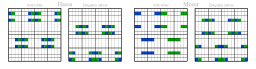
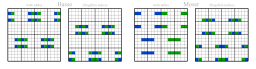
Draw crispEdges and optimizeSpeed shapes without antialiasing; struct forgives what blurs alike
Inkscape draws the four other wikimedia grids of dashes Skia drops or keeps by their phase.

Changed region(s): [[0.5312, 0.1159, 1.0, 0.8986], [0.0, 0.1159, 0.4688, 0.8986], [0.5312, 0.7246, 0.5625, 0.7536]]

diff --git a/svg.cpp b/svg.cpp
@@ -190,6 +190,7 @@ using namespace stl;
     ATOM(MixBlendMode, "mix-blend-mode")                           \
     ATOM(Isolation, "isolation")                                   \
     ATOM(ColorInterpolation, "color-interpolation")                \
+    ATOM(ShapeRendering, "shape-rendering")                        \
     ATOM(Outline, "outline")
 
 namespace {
@@ -541,6 +542,7 @@ namespace {
         u8 blend;
         bool isolate;
         bool linearColors;
+        bool aliased;
         float outlineWidth;
         Color outlineColor;
         u8 paintOrder[3];
@@ -673,6 +675,7 @@ namespace {
     struct Op {
         OpKind kind;
         u8 rule;
+        bool aliased;
         u32 first;
         u32 count;
         Box bounds;
@@ -4116,6 +4119,8 @@ namespace {
                 return equalsIgnoreCase(text, StringView(u8"none")) || validDashes(text);
             case AtomStrokeWidth:
                 return parseLength(text, length) && length.value >= 0.f;
+            case AtomShapeRendering:
+                return equalsIgnoreCase(text, StringView(u8"auto")) || equalsIgnoreCase(text, StringView(u8"optimizespeed")) || equalsIgnoreCase(text, StringView(u8"crispedges")) || equalsIgnoreCase(text, StringView(u8"geometricprecision"));
             default:
                 return true;
         }
@@ -7269,6 +7274,16 @@ namespace {
                     style.outlineColor = color;
                     break;
                 }
+                case AtomShapeRendering:
+                    if (keyword) {
+                        style.aliased = source.aliased;
+                    } else if (isKeyword(value, "crispedges") || isKeyword(value, "optimizespeed")) {
+                        style.aliased = true;
+                    } else if (isKeyword(value, "auto") || isKeyword(value, "geometricprecision")) {
+                        style.aliased = false;
+                    }
+
+                    break;
                 case AtomColorInterpolation:
                     if (keyword) {
                         style.linearColors = source.linearColors;
@@ -7460,12 +7475,13 @@ namespace {
         }
     }
 
-    static void emitFill(Lowering& l, const Flat& flat, u8 rule, DevicePaint* paint) {
+    static void emitFill(Lowering& l, const Flat& flat, u8 rule, DevicePaint* paint, bool aliased) {
         Op op;
 
         memset(&op, 0, sizeof(op));
         op.kind = OpKind::Fill;
         op.rule = rule;
+        op.aliased = aliased;
         op.paint = paint;
         op.first = (u32)l.edges.length();
         op.bounds = emptyBox();
@@ -8617,7 +8633,7 @@ namespace {
             Flat flat;
 
             flatten(path, item.space, tolerance, flat);
-            emitFill(l, flat, item.style.clipRule, solidPaint(l, Color{1.f, 1.f, 1.f, 1.f}, 1.f));
+            emitFill(l, flat, item.style.clipRule, solidPaint(l, Color{1.f, 1.f, 1.f, 1.f}, 1.f), false);
 
             if (inner.clipped) {
                 endGroup(l);
@@ -9546,11 +9562,11 @@ namespace {
                     Flat flat;
 
                     flatten(path, m, tolerance, flat);
-                    emitFill(l, flat, style.fillRule, fill);
+                    emitFill(l, flat, style.fillRule, fill, style.aliased);
                 }
             } else if (layer == 1 && style.visible && style.strokeWidth > 0.f) {
                 float coverage = 1.f;
-                bool hairline = !style.nonScaling && hairlineCoverage(style.strokeWidth, m, coverage);
+                bool hairline = !style.nonScaling && !style.aliased && hairlineCoverage(style.strokeWidth, m, coverage);
 
                 if (DevicePaint* stroke = devicePaint(l, style.stroke, style.strokeOpacity * coverage, style, style.stroke.context ? l.contextBox : box, style.stroke.context ? l.contextMatrix : m, vp)) {
                     Flat outline;
@@ -9581,7 +9597,7 @@ namespace {
                         }
                     }
 
-                    emitFill(l, device, WindingNonZero, stroke);
+                    emitFill(l, device, WindingNonZero, stroke, style.aliased);
                 }
             } else if (layer == 2) {
                 Matrix outerMatrix = l.contextMatrix;
@@ -9716,7 +9732,7 @@ namespace {
                 lineTo(canvas, Point{0.f, h});
                 closePath(canvas);
                 flatten(canvas, identity(), tolerance, flat);
-                emitFill(l, flat, WindingNonZero, solidPaint(l, style.background, 1.f));
+                emitFill(l, flat, WindingNonZero, solidPaint(l, style.background, 1.f), false);
             }
             Box viewBox;
 
@@ -10121,7 +10137,7 @@ namespace {
             lineTo(rect, Point{rx0, ry1});
             closePath(rect);
             flatten(rect, m, tolerance, flat);
-            emitFill(l, flat, WindingNonZero, paint);
+            emitFill(l, flat, WindingNonZero, paint, false);
 
             return;
         }
@@ -10557,7 +10573,7 @@ namespace {
             lineTo(ring, Point{outline.x0, outline.y1});
             closePath(ring);
             flatten(ring, m, tolerance, flat);
-            emitFill(l, flat, WindingEvenOdd, solidPaint(l, style.outlineColor, 1.f));
+            emitFill(l, flat, WindingEvenOdd, solidPaint(l, style.outlineColor, 1.f), false);
         }
 
         l.depth--;
@@ -10917,7 +10933,29 @@ namespace {
         return true;
     }
 
-    static bool rasterize(Raster& r, const Lowering& l, u32 first, u32 count, Box bounds, u32& ix0, u32& iy0, u32& w, u32& h) {
+    static void addAliasedEdge(float* acc, u32 stride, u32 width, u32 height, Edge e) {
+        float dir = 1.f;
+
+        if (e.y0 > e.y1) {
+            e = Edge{e.x1, e.y1, e.x0, e.y0};
+            dir = -1.f;
+        }
+
+        float top = floorf(e.y0 + 0.5f);
+        float bottom = floorf(e.y1 + 0.5f);
+        float dxdy = (e.x1 - e.x0) / (e.y1 - e.y0);
+        int y0 = top < 0.f ? 0 : (int)top;
+        int y1 = bottom > (float)height ? (int)height : (int)bottom;
+
+        for (int y = y0; y < y1; y++) {
+            float x = floorf(e.x0 + ((float)y + 0.5f - e.y0) * dxdy + 0.5f);
+            int column = x < 0.f ? 0 : (x > (float)width ? (int)width : (int)x);
+
+            acc[(size_t)y * stride + column] += dir;
+        }
+    }
+
+    static bool rasterize(Raster& r, const Lowering& l, u32 first, u32 count, Box bounds, bool aliased, u32& ix0, u32& iy0, u32& w, u32& h) {
         float bx0 = floorf(maxf(bounds.x0, 0.f));
         float by0 = floorf(maxf(bounds.y0, 0.f));
         float bx1 = ceilf(minf(bounds.x1, (float)r.width));
@@ -10941,7 +10979,13 @@ namespace {
         for (u32 i = first; i < first + count; i++) {
             Edge e = l.edges[i];
 
-            addEdge(acc, stride, w, h, Edge{e.x0 - ix0, e.y0 - iy0, e.x1 - ix0, e.y1 - iy0});
+            Edge local{e.x0 - ix0, e.y0 - iy0, e.x1 - ix0, e.y1 - iy0};
+
+            if (aliased) {
+                addAliasedEdge(acc, stride, w, h, local);
+            } else {
+                addEdge(acc, stride, w, h, local);
+            }
         }
 
         return true;
@@ -10974,7 +11018,7 @@ namespace {
         u32 w;
         u32 h;
 
-        if (!rasterize(r, l, op.first, op.count, op.bounds, ix0, iy0, w, h)) {
+        if (!rasterize(r, l, op.first, op.count, op.bounds, op.aliased, ix0, iy0, w, h)) {
             return;
         }
 
@@ -11027,7 +11071,7 @@ namespace {
         u32 w;
         u32 h;
 
-        if (!boxValid(bounds) || !rasterize(r, l, shape.first, shape.count, bounds, ix0, iy0, w, h)) {
+        if (!boxValid(bounds) || !rasterize(r, l, shape.first, shape.count, bounds, false, ix0, iy0, w, h)) {
             return;
         }
 

diff --git a/main.cpp b/main.cpp
@@ -352,33 +352,75 @@ namespace {
         }
     }
 
+    static void blur(const u8* src, u32 width, u32 height, Buffer& out) {
+        size_t length = (size_t)width * height * 4;
+        Buffer row;
+
+        row.zero(length);
+        out.zero(length);
+
+        u8* r = (u8*)row.mutData();
+        u8* o = (u8*)out.mutData();
+
+        for (u32 y = 0; y < height; y++) {
+            for (u32 x = 0; x < width; x++) {
+                u32 x0 = x ? x - 1 : x;
+                u32 x1 = x + 1 < width ? x + 1 : x;
+
+                for (int c = 0; c < 4; c++) {
+                    r[((size_t)y * width + x) * 4 + c] = (u8)((src[((size_t)y * width + x0) * 4 + c] + 2 * src[((size_t)y * width + x) * 4 + c] + src[((size_t)y * width + x1) * 4 + c] + 2) / 4);
+                }
+            }
+        }
+
+        for (u32 y = 0; y < height; y++) {
+            u32 y0 = y ? y - 1 : y;
+            u32 y1 = y + 1 < height ? y + 1 : y;
+
+            for (u32 x = 0; x < width; x++) {
+                for (int c = 0; c < 4; c++) {
+                    o[((size_t)y * width + x) * 4 + c] = (u8)((r[((size_t)y0 * width + x) * 4 + c] + 2 * r[((size_t)y * width + x) * 4 + c] + r[((size_t)y1 * width + x) * 4 + c] + 2) / 4);
+                }
+            }
+        }
+    }
+
     static double structural(const u8* a, const u8* b, u32 width, u32 height) {
         size_t count = (size_t)width * height;
         Buffer aLo;
         Buffer aHi;
         Buffer bLo;
         Buffer bHi;
+        Buffer aBlur;
+        Buffer bBlur;
 
         envelope(a, width, height, aLo, aHi);
         envelope(b, width, height, bLo, bHi);
+        blur(a, width, height, aBlur);
+        blur(b, width, height, bBlur);
 
         const u8* al = (const u8*)aLo.data();
         const u8* ah = (const u8*)aHi.data();
         const u8* bl = (const u8*)bLo.data();
         const u8* bh = (const u8*)bHi.data();
+        const u8* fa = (const u8*)aBlur.data();
+        const u8* fb = (const u8*)bBlur.data();
         size_t bad = 0;
 
         for (size_t i = 0; i < count * 4; i += 4) {
+            bool outside = false;
+            bool apart = false;
+
             for (int c = 0; c < 4; c++) {
                 int va = a[i + c];
                 int vb = b[i + c];
+                int blurred = (int)fa[i + c] - (int)fb[i + c];
 
-                if (va - bh[i + c] > structTolerance || bl[i + c] - va > structTolerance || vb - ah[i + c] > structTolerance || al[i + c] - vb > structTolerance) {
-                    bad++;
-
-                    break;
-                }
+                outside = outside || va - bh[i + c] > structTolerance || bl[i + c] - va > structTolerance || vb - ah[i + c] > structTolerance || al[i + c] - vb > structTolerance;
+                apart = apart || blurred > structTolerance || -blurred > structTolerance;
             }
+
+            bad += outside && apart;
         }
 
         return count ? (double)bad / (double)count : 0.0;

diff --git a/README.md b/README.md
@@ -53,9 +53,12 @@ the next fixes.
 - `struct` counts what is drawn wrong rather than slightly differently. A
   pixel is wrong when a channel of ours lies more than 32 out of 255 outside
   the range of Chromium's pixels around it, three by three, or Chromium's
-  lies that far outside the range of ours. A case fails when over 0.1% of
-  the pixels of one of its drawings are wrong. `struct` is the number of
-  failing cases and the mean share of wrong pixels over the worst 1%.
+  lies that far outside the range of ours, and both drawings blurred with
+  the kernel 1 2 1 across and down still differ there by more than 32: an
+  edge or a thin line a fraction of a pixel away is not wrong, a missing or
+  miscolored one is. A case fails when over 0.1% of the pixels of one of its
+  drawings are wrong. `struct` is the number of failing cases and the mean
+  share of wrong pixels over the worst 1%.
 
 The same test draws each case once for all of them: `svg test` writes the
 errors and the shares of wrong pixels of its drawings, and the shares of
